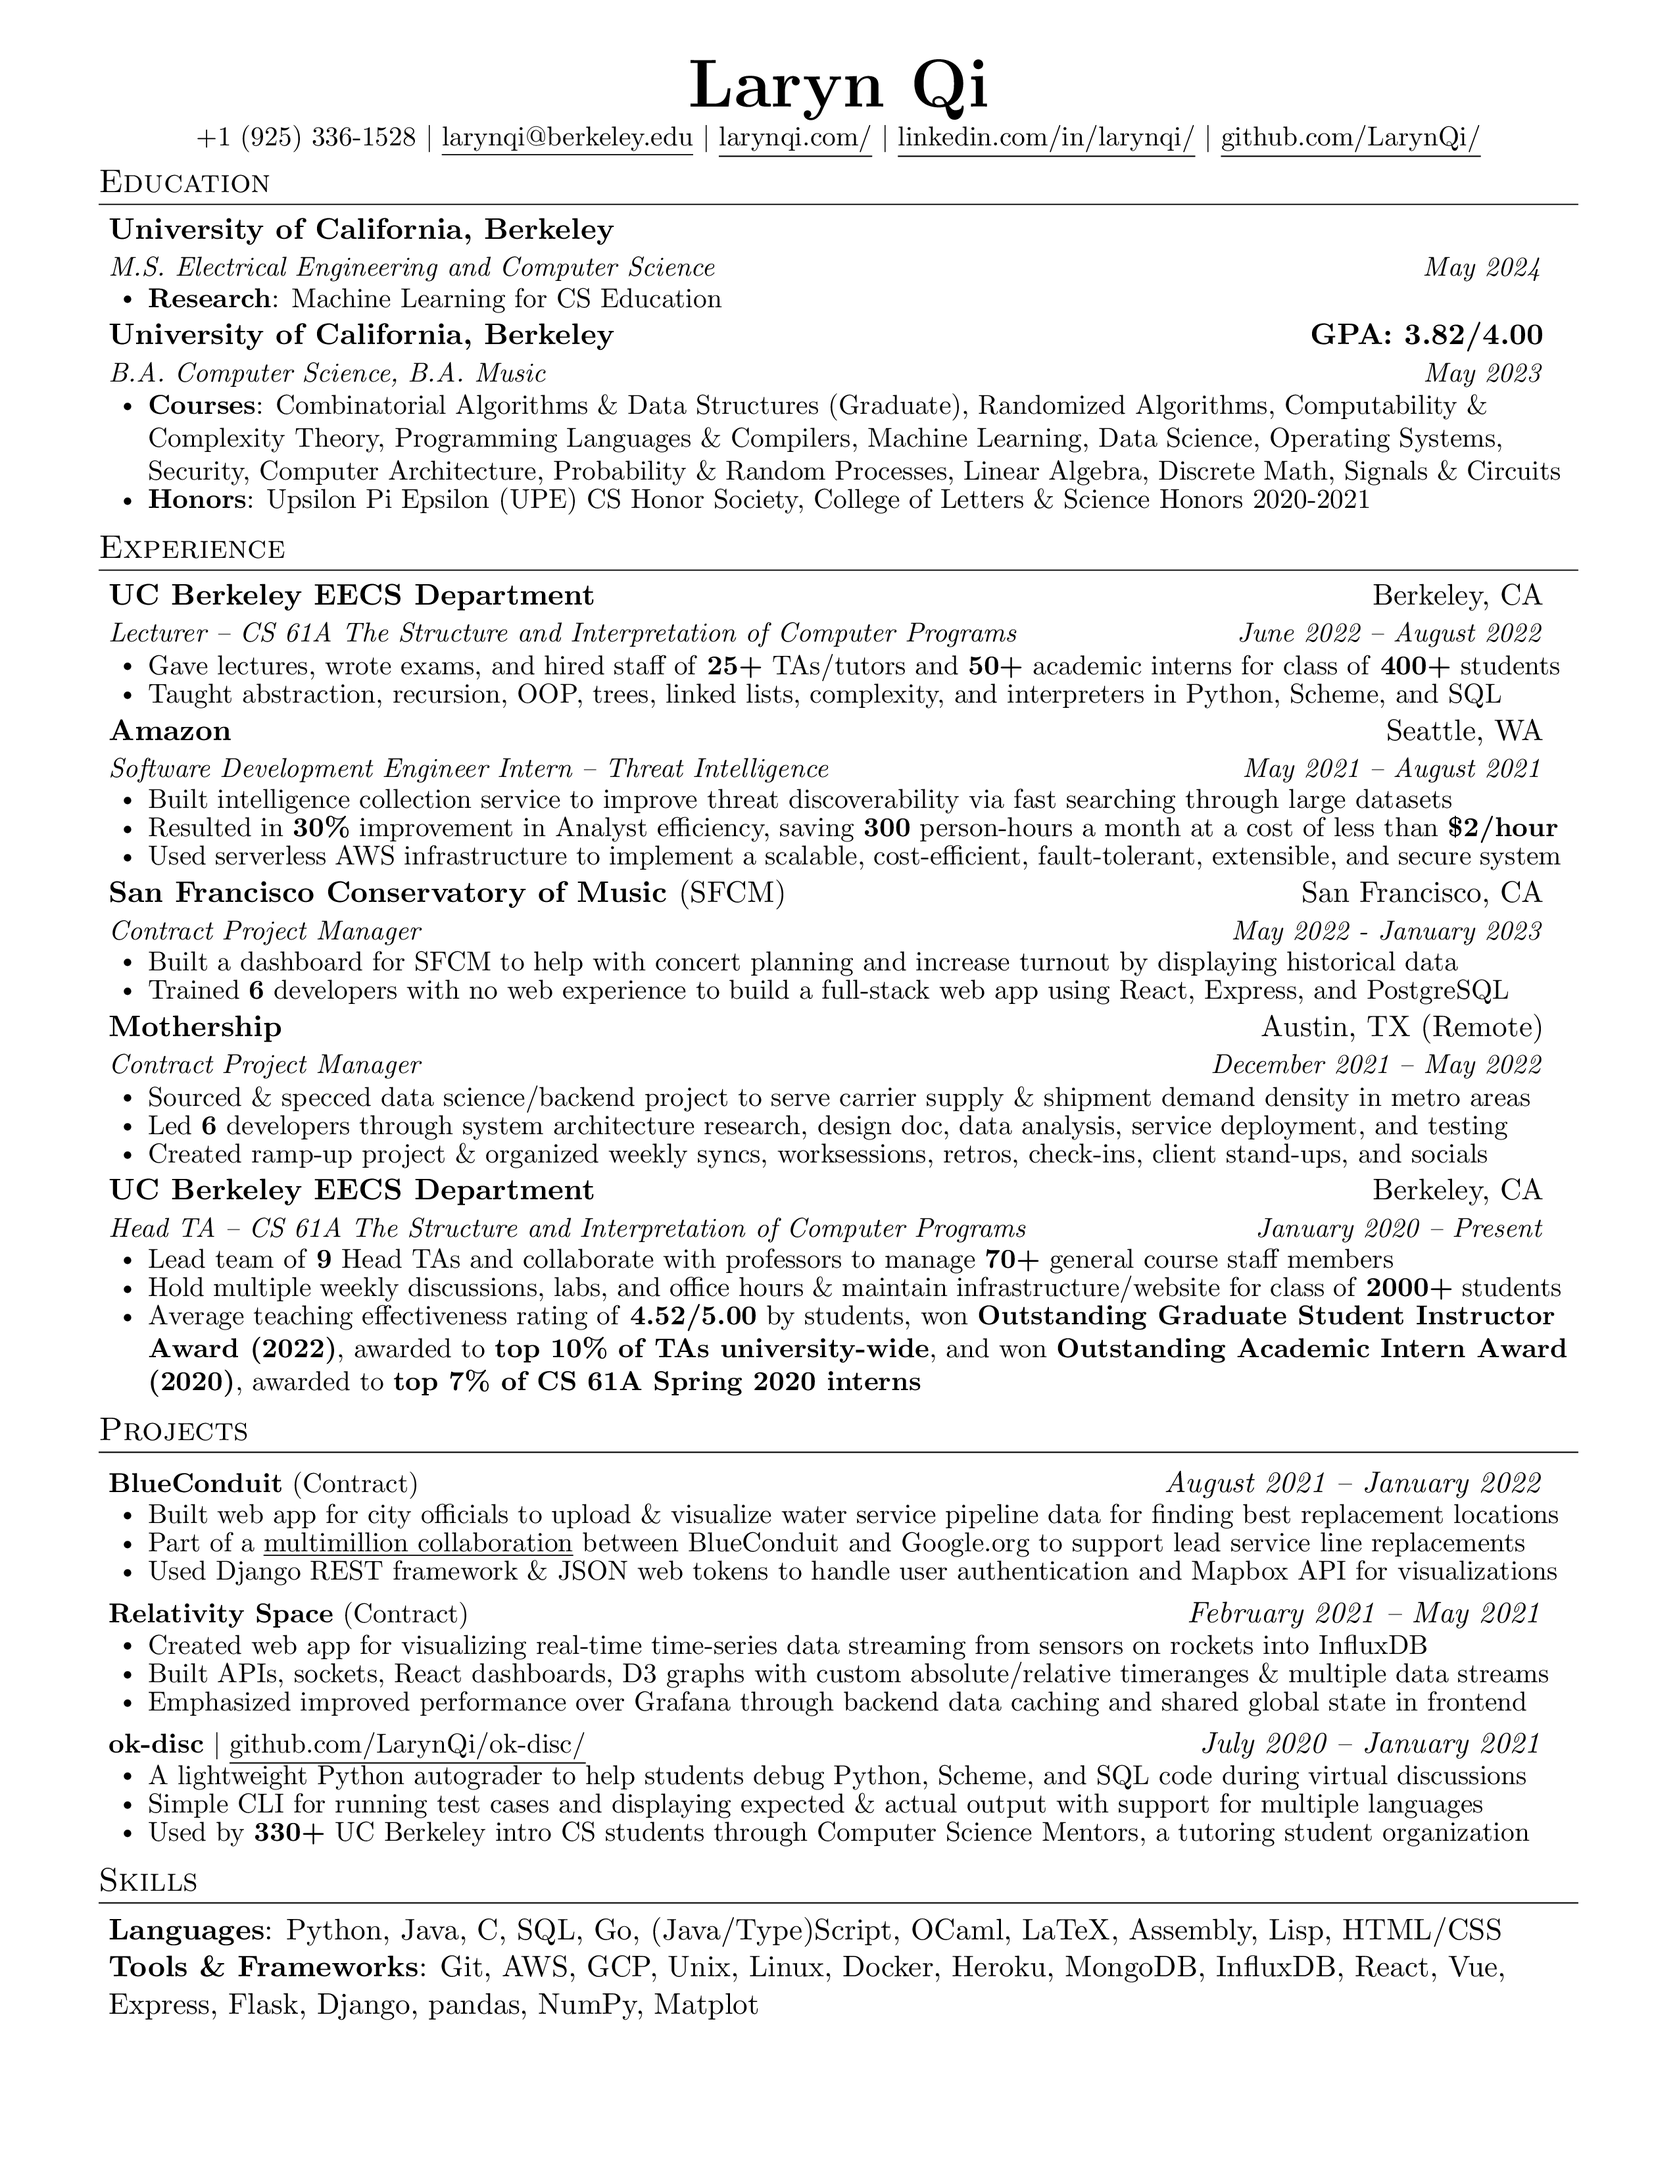
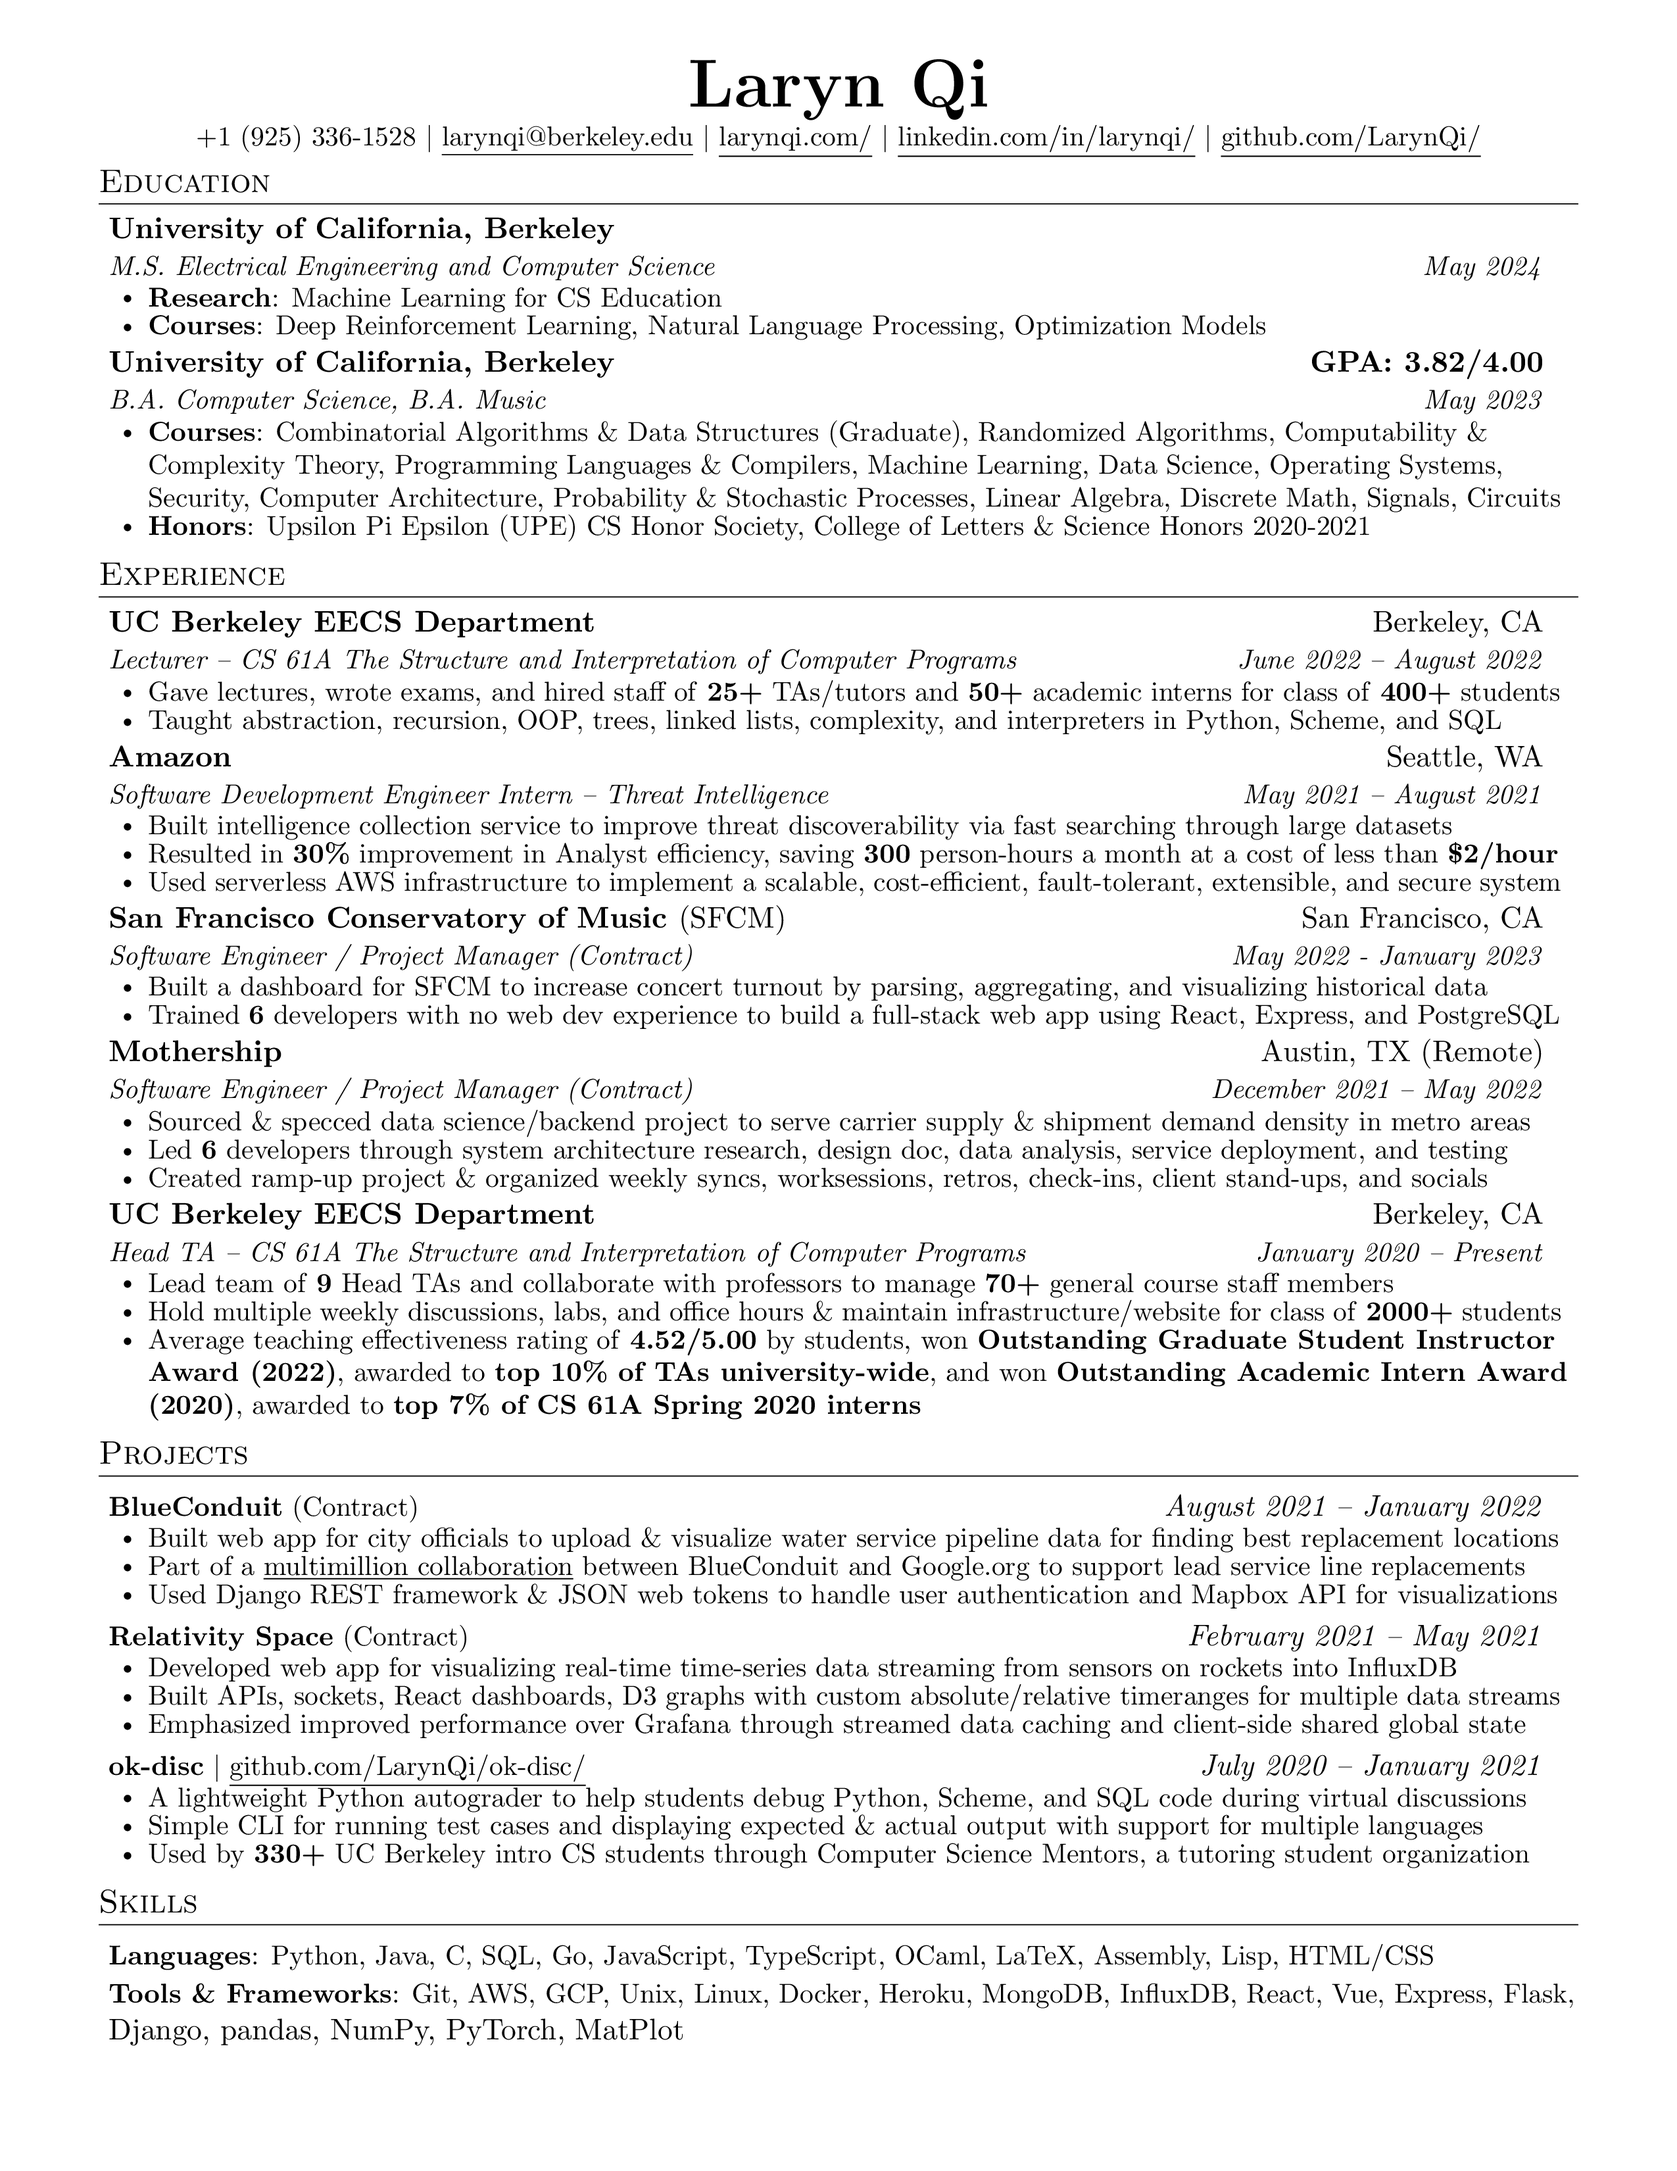
9.6.23

Changed region(s): [[0.062, 0.0936, 0.9294, 0.9364]]

diff --git a/main.tex b/main.tex
@@ -131,11 +131,12 @@
             {University of California, Berkeley}{}{M.S. Electrical Engineering and Computer Science}{May 2024}
             \resumeItemListStart
                 \resumeItemBF{Research}{Machine Learning for CS Education}
+                \resumeItemBF{Courses}{Deep Reinforcement Learning, Natural Language Processing, Optimization Models}
             \resumeItemListEnd
     \resumeSubheading
         {University of California, Berkeley}{\textbf{GPA: 3.82/4.00}}{B.A. Computer Science, B.A. Music}{May 2023}
         \resumeItemListStart
-            \resumeItemBF{Courses}{Combinatorial Algorithms \& Data Structures (Graduate), Randomized Algorithms, Computability \& Complexity Theory, Programming Languages \& Compilers, Machine Learning, Data Science, Operating Systems, Security, Computer Architecture, Probability \& Random Processes, Linear Algebra, Discrete Math, Signals \& Circuits}
+            \resumeItemBF{Courses}{Combinatorial Algorithms \& Data Structures (Graduate), Randomized Algorithms, Computability \& Complexity Theory, Programming Languages \& Compilers, Machine Learning, Data Science, Operating Systems, Security, Computer Architecture, Probability \& Stochastic Processes, Linear Algebra, Discrete Math, Signals, Circuits}
             \resumeItemBF{Honors}{Upsilon Pi Epsilon (UPE) CS Honor Society, College of Letters \& Science Honors 2020-2021}
         \resumeItemListEnd
 \resumeSubHeadingListEnd
@@ -162,14 +163,14 @@
     \resumeItemListEnd
 
 \resumeSubheading
-    {San Francisco Conservatory of Music {\normalfont (SFCM)}}{San Francisco, CA}{Contract Project Manager}{May 2022 - January 2023}
+    {San Francisco Conservatory of Music {\normalfont (SFCM)}}{San Francisco, CA}{Software Engineer / Project Manager (Contract)}{May 2022 - January 2023}
     \resumeItemListStart
-        \resumeItem{Built a dashboard for SFCM to help with concert planning and increase turnout by displaying historical data}
-        \resumeItem{Trained \textbf{6} developers with no web experience to build a full-stack web app using React, Express, and PostgreSQL}
+        \resumeItem{Built a dashboard for SFCM to increase concert turnout by parsing, aggregating, and visualizing historical data}
+        \resumeItem{Trained \textbf{6} developers with no web dev experience to build a full-stack web app using React, Express, and PostgreSQL}
     \resumeItemListEnd
 
 \resumeSubheading
-    {Mothership}{Austin, TX (Remote)}{Contract Project Manager}{December 2021 – May 2022}
+    {Mothership}{Austin, TX (Remote)}{Software Engineer / Project Manager (Contract)}{December 2021 – May 2022}
     \resumeItemListStart
         \resumeItem{Sourced \& specced data science/backend project to serve carrier supply \& shipment demand density in metro areas}
         \resumeItem{Led \textbf{6} developers through system architecture research, design doc, data analysis, service deployment, and testing}
@@ -224,9 +225,9 @@
     \resumeProjectHeading
     {\textbf{Relativity Space} (Contract)}{February 2021 – May 2021}
         \resumeItemListStart
-            \resumeItem{Created web app for visualizing real-time time-series data streaming from sensors on rockets into InfluxDB}
-            \resumeItem{Built APIs, sockets, React dashboards, D3 graphs with custom absolute/relative timeranges \& multiple data streams}
-            \resumeItem{Emphasized improved performance over Grafana through backend data caching and shared global state in frontend}
+            \resumeItem{Developed web app for visualizing real-time time-series data streaming from sensors on rockets into InfluxDB}
+            \resumeItem{Built APIs, sockets, React dashboards, D3 graphs with custom absolute/relative timeranges for multiple data streams}
+            \resumeItem{Emphasized improved performance over Grafana through streamed data caching and client-side shared global state}
         \resumeItemListEnd
 
     \resumeProjectHeading
@@ -243,12 +244,22 @@
 %-----------SKILLS-----------
 \section{Skills}
 
-\begin{itemize}[leftmargin=0.05in, label={}]
-    \item{
+% \begin{itemize}[leftmargin=0.05in, label={}]
+%     \item{
     
-    \textbf{Languages}: Python, Java, C, SQL, Go, (Java/Type)Script, OCaml, LaTeX, Assembly, Lisp, HTML/CSS\\
+%     \textbf{Languages}: Python, Java, C, SQL, Go, (Java/Type)Script, OCaml, LaTeX, Assembly, Lisp, HTML/CSS\\
     
-    \textbf{Tools \& Frameworks}: Git, AWS, GCP, Unix, Linux, Docker, Heroku, MongoDB, InfluxDB, React, Vue, Express, Flask, Django, pandas, NumPy, Matplot}
-\end{itemize}
+%     \textbf{Tools \& Frameworks}: Git, AWS, GCP, Unix, Linux, Docker, Heroku, MongoDB, InfluxDB, React, Vue, Express, Flask, Django, pandas, NumPy, PyTorch, Matplot}
+% \end{itemize}
+
+\resumeSubHeadingListStart
+
+    % \resumeSubheading
+    % {BlueConduit}{Ann Arbor, MI (Remote)}{Contract Software Developer}{August 2021 – January 2022}
+    \resumeProjectHeading
+    {\textbf{Languages}: Python, Java, C, SQL, Go, JavaScript, TypeScript, OCaml, LaTeX, Assembly, Lisp, HTML/CSS}{}
+    \resumeProjectHeading
+    {\textbf{Tools \& Frameworks}: Git, AWS, GCP, Unix, Linux, Docker, Heroku, MongoDB, InfluxDB, React, Vue, Express, Flask, \\ Django, pandas, NumPy, PyTorch, MatPlot}{}
+\resumeSubHeadingListEnd
 
 \end{document}

diff --git a/README.md b/README.md
@@ -2,6 +2,6 @@
 
 Personal resume made using [jakegut/resume](https://github.com/jakegut/resume) and [rizhu/Resume](https://github.com/rizhu/Resume).
 
-Last updated: **<ins>2023/6/1</ins>**.
+Last updated: **<ins>2023/9/6</ins>**.
 
 ![](Laryn_Qi_resume.png)
